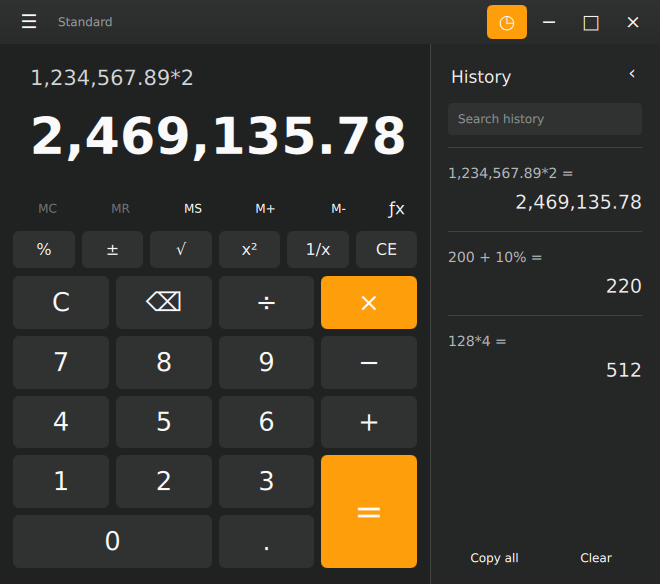
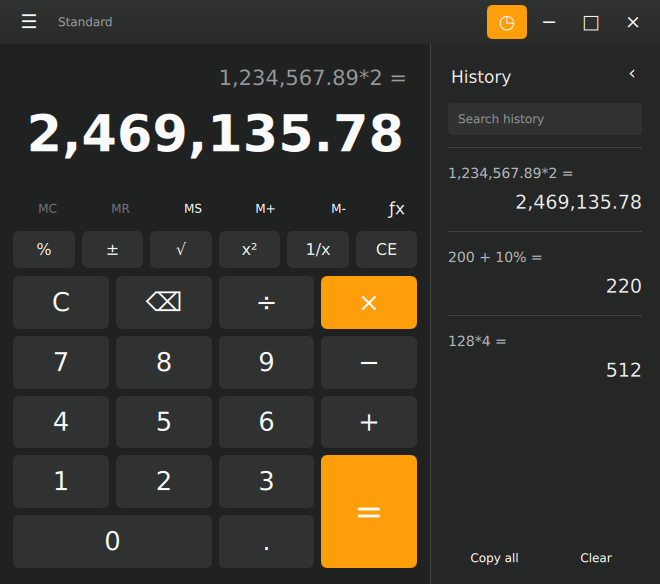
Show input in the main display and completed formula above

Changed region(s): [[0.0303, 0.1849, 0.6364, 0.2774], [0.3333, 0.0925, 0.6061, 0.1541], [0.0303, 0.0925, 0.303, 0.1541]]

diff --git a/qml/Main.qml b/qml/Main.qml
@@ -13,7 +13,7 @@ ApplicationWindow {
  palette.window: "#252626"; palette.windowText: "#eeeeee"; palette.base: "#303131"; palette.text: "#eeeeee"; palette.button: "#363737"; palette.buttonText: "#eeeeee"; palette.highlight: "#ff9e0b"; palette.highlightedText: "#141414"
  property bool historyOpen: prefs.historyOpen
  property bool scientific: prefs.scientific
- property var calcState: ({expression:"",result:"0",history:[],memory:null,error:false,notice:""})
+ property var calcState: ({expression:"",result:"0",history:[],memory:null,error:false,done:false,notice:""})
  property string toast: ""
  property string historyQuery: ""
  Settings { id: prefs; property bool historyOpen: true; property bool scientific: false; property bool grouping: true; property bool degrees: true; property bool onTop: false }
@@ -82,21 +82,26 @@ ApplicationWindow {
    id:calcArea;anchors.top:titlebar.bottom;anchors.bottom:parent.bottom;anchors.left:parent.left;width:parent.width-(historyOpen?230:0)
    Item{
     id:display;anchors.top:parent.top;width:parent.width;height:137
+    Text{
+     x:23;y:15;width:parent.width-46;height:38
+     text:calcState.history.length ? expressionText(calcState.history[0].expression)+" =" : ""
+     color:"#969b9b";font.pixelSize:21;horizontalAlignment:Text.AlignRight;verticalAlignment:Text.AlignVCenter;elide:Text.ElideLeft
+     Accessible.name:"Last calculation"
+    }
+    Text{x:8;y:83;text:calcState.memory!==null?"M":"";color:"#ffac29";font.pixelSize:12}
+    TextMetrics{id:displayMetrics;font.family:"DejaVu Sans";font.weight:Font.DemiBold;font.pixelSize:56;text:editor.text}
     TextField{
-     id:editor;x:20;y:15;width:parent.width-40;height:38
-     text:activeFocus ? calcState.expression : expressionText(calcState.expression)
-     color:"#d4d8d8";font.pixelSize:21;selectByMouse:true;placeholderText:"Enter a calculation";placeholderTextColor:"#737979"
+     id:editor;x:20;y:60;width:parent.width-40;height:65
+     text:activeFocus ? calcState.expression : (calcState.done||calcState.error ? pretty(calcState.result) : (expressionText(calcState.expression)||"0"))
+     color:calcState.error?"#ffba7a":"#fafafa";font.family:"DejaVu Sans";font.weight:Font.DemiBold
+     font.pixelSize:calcState.error?22:Math.max(18,Math.min(56,56*(width-16)/Math.max(1,displayMetrics.advanceWidth)))
+     horizontalAlignment:Text.AlignRight;verticalAlignment:Text.AlignVCenter;selectByMouse:true
      background:Rectangle{color:editor.activeFocus?"#2a2c2c":"transparent";radius:4;border.width:editor.activeFocus?1:0;border.color:"#585b5b"}
      onTextEdited:act("edit:"+normalize(text))
      Keys.onReturnPressed:event=>{event.accepted=true;act("=");main.forceActiveFocus()}
      Keys.onEnterPressed:event=>{event.accepted=true;act("=");main.forceActiveFocus()}
      ToolTip.visible:hovered;ToolTip.text:"Edit an expression · Ctrl+L";ToolTip.delay:900
-     Accessible.name:"Expression"
-    }
-    Text{x:23;y:61;text:calcState.memory!==null?"M":"";color:"#ffac29";font.pixelSize:12}
-    Text{
-     x:23;y:60;width:parent.width-46;height:65
-     text:pretty(calcState.result);color:calcState.error?"#ffba7a":"#fafafa";font.family:"DejaVu Sans";font.weight:Font.DemiBold;font.pixelSize:calcState.error?22:56;minimumPixelSize:18;fontSizeMode:Text.Fit;horizontalAlignment:Text.AlignRight;verticalAlignment:Text.AlignVCenter;maximumLineCount:1
+     Accessible.name:"Calculation"
      MouseArea{anchors.fill:parent;acceptedButtons:Qt.RightButton;onClicked:resultMenu.popup()}
     }
    }

diff --git a/bridge.cpp b/bridge.cpp
@@ -14,6 +14,6 @@ public:
  Q_INVOKABLE void copy(const QString& value){QGuiApplication::clipboard()->setText(value);}
 private:void* core;
 };
-int main(int argc,char** argv){QGuiApplication app(argc,argv);app.setApplicationName("Calc");app.setOrganizationName("HappyCatKitten");app.setApplicationVersion("1.2.1");app.setDesktopFileName("calc");app.setWindowIcon(QIcon(":/icon.svg"));
+int main(int argc,char** argv){QGuiApplication app(argc,argv);app.setApplicationName("Calc");app.setOrganizationName("HappyCatKitten");app.setApplicationVersion("1.2.2");app.setDesktopFileName("calc");app.setWindowIcon(QIcon(":/icon.svg"));
 Calculator calculator;QQmlApplicationEngine engine;engine.rootContext()->setContextProperty("calculator",&calculator);engine.load(QUrl("qrc:/qml/Main.qml"));if(engine.rootObjects().isEmpty())return 1;return app.exec();}
 #include "bridge.moc"

diff --git a/scripts/screenshots.py b/scripts/screenshots.py
@@ -49,8 +49,11 @@ with tempfile.TemporaryDirectory(prefix='calc-screenshots-') as scratch:
             return run('xclip','-selection','clipboard','-o')
         x('key','Escape');x('type','--clearmodifiers','12p3')
         assert displayed_result()=='0', 'Typing evaluated before Enter'
+        capture('typing.png')
         x('key','Return');assert displayed_result()=='15'
+        capture('answered.png')
         x('type','--clearmodifiers','t2');assert displayed_result()=='15'
+        capture('continuing.png')
         x('key','Return');assert displayed_result()=='30'
         x('key','ctrl+l');x('type','--clearmodifiers','1/0');x('key','Tab')
         assert displayed_result()=='30', 'Expression editing evaluated before Enter'

diff --git a/src/lib.rs b/src/lib.rs
@@ -24,7 +24,6 @@ pub struct Calculator {
     degrees: bool,
     error: bool,
     notice: String,
-    #[serde(skip)]
     done: bool,
     #[serde(skip)]
     undo: Vec<Snapshot>,

diff --git a/README.md b/README.md
@@ -1,8 +1,8 @@
 # Calc
 
-A native Linux calculator built with Rust and Qt Quick/QML. Calculations run only when you press Enter or the equals button; editing keeps the last confirmed answer visible.
+A native Linux calculator built with Rust and Qt Quick/QML. Calculations run only when you press Enter or the equals button; the expression appears in the main display while typing, then moves above the answer after calculation.
 
-[Download v1.2.1](https://github.com/HappyCatKitten/Calc/releases/tag/v1.2.1) · [Test report](validation/REPORT.md)
+[Download v1.2.2](https://github.com/HappyCatKitten/Calc/releases/tag/v1.2.2) · [Test report](validation/REPORT.md)
 
 ![Calc: standard mode and history](docs/screenshots/standard.png)
 
@@ -40,19 +40,19 @@ Download the **amd64 `.deb`** or **Linux x86_64 `.tar.gz`** from [Releases](http
 Debian/Ubuntu/Pop!_OS:
 
 ```sh
-sudo apt install ./calc_1.2.1_amd64.deb
+sudo apt install ./calc_1.2.2_amd64.deb
 ```
 
 Standalone archive / per-user installation:
 
 ```sh
-tar -xzf calc-1.2.1-linux-x86_64.tar.gz
-cd calc-1.2.1-linux-x86_64
+tar -xzf calc-1.2.2-linux-x86_64.tar.gz
+cd calc-1.2.2-linux-x86_64
 ./AppRun           # run without installing
 ./install.sh       # add to your app menu and ~/.local/bin
 ```
 
-The archive installer uses `~/.local/share/calc/versions/1.2.1` (or `$XDG_DATA_HOME`) and needs no root access. Your saved history is kept separately. Verify downloads with the release's `SHA256SUMS`.
+The archive installer uses `~/.local/share/calc/versions/1.2.2` (or `$XDG_DATA_HOME`) and needs no root access. Your saved history is kept separately. Verify downloads with the release's `SHA256SUMS`.
 
 Built on Linux x86_64 with glibc 2.35. Tested on Pop!_OS 22.04/X11. The `.deb` declares its remaining system-library dependencies. Wayland plugins are bundled, but Wayland is not yet verified.
 

diff --git a/packaging/RELEASE_NOTES.md b/packaging/RELEASE_NOTES.md
@@ -1,8 +1,6 @@
-# Calc 1.2.1
+# Calc 1.2.2
 
-- Updated the application launcher description to “Matrix Multiplier”.
-- Includes the native Rust engine and Enter-only calculation behavior from 1.2.0.
-
-Downloads: `calc_1.2.1_amd64.deb`, `calc-1.2.1-linux-x86_64.tar.gz`, and `SHA256SUMS`.
-
-Qt 6.8.3 is bundled. Linux x86_64, glibc 2.35 or newer.
+- Type calculations in the large main display.
+- Press Enter or equals to show the answer and move the completed formula to the smaller line above.
+- Keep the last completed formula visible while preparing the next calculation.
+- Direct expression editing, scientific functions, and operator shortcuts remain available.
